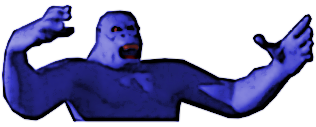
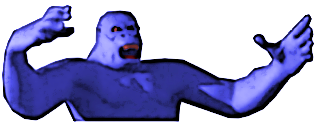
tweaks for mobile on image

diff --git a/static/frontpage.j2.html b/static/frontpage.j2.html
@@ -3,11 +3,15 @@
     <title>Brumkong on Birmingham</title>
     <style type="text/css">
        body { font-family:"Courier New", Courier, monospace; }
+       div.kong { max-width: 350px; }
     </style>
+    <meta name="viewport" content="width=device-width, initial-scale=1">
 </head>
 
 <body>
-    <img src='/static/a_brumkong_d.png' alt="picture of brumkong"/>
+    <div class="kong">
+        <img src='/static/a_brumkong_d.png' alt="picture of brumkong" width="100%"/>
+    </div>
     <h1>BrumKong on Birmingham</h1>
     <hr/>
     <h2>Latest from BrumKong:</h2>
